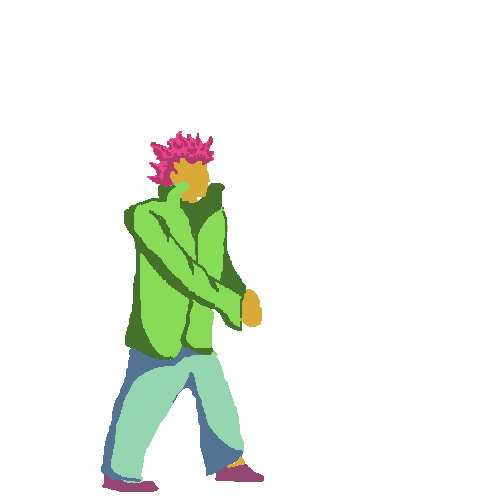
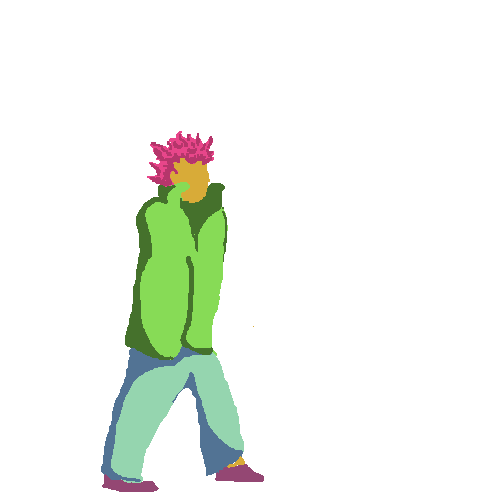
i thought and decide that normal punch will by the fists instead sword. sword will super punch

Changed region(s): [[0.24, 0.39, 0.54, 0.66], [0.36, 0.63, 0.39, 0.66]]

diff --git a/main.py b/main.py
@@ -21,21 +21,21 @@ class LevelObject(pygame.sprite.Sprite):
         self.weapon = False
         if person:
             if person == 1:
-                self.image = pygame.image.load("data/person.png")
-                self.image = pygame.Surface.convert_alpha(self.image)
+                self.image = pygame.image.load("data/person.png").convert_alpha()
             self.rect = self.image.get_rect()
             self.person = True
-            self.walk = False
+
 
             self.speed = background.speed
             self.person_number = person
         elif weapon:
             if weapon == 1:
-                self.image = pygame.image.load("data/sword.png").convert_alpha()
-                # self.image = pygame.Surface.convert_alpha(self.image)
+                self.image = pygame.image.load("data/fists.png").convert_alpha()
+
             self.rect = self.image.get_rect()
             self.weapon = True
             self.person_number = weapon
+        self.walk = False
         self.animation_active = False
         self.rect.x = x
         self.rect.y = y
@@ -63,19 +63,22 @@ class LevelObject(pygame.sprite.Sprite):
                     if not self.look_right:
                         self.image = pygame.transform.flip(self.image, True, False)
                 elif self.weapon:
-                    if self.animation_active:
-                        if self.normal_weapon_punch:
-                            self.max_value_anim = 9
-                            self.image = pygame.image.load(f"data/sword_punch{self.now_frame % self.max_value_anim + 1}.png")
-                        if not self.look_right:
-                            self.image = pygame.transform.flip(self.image, True, False)
+                    # if self.weapon
+                    if self.walk:
+                        self.max_value_anim = 5
+                        self.image = pygame.image.load(f"data/fists_walk_animation{self.now_frame % 5 + 1}.png")
+                    elif self.normal_weapon_punch:
+                        self.max_value_anim = 9
+                        self.image = pygame.image.load(f"data/sword_punch{self.now_frame % self.max_value_anim + 1}.png")
+                    if not self.look_right:
+                        self.image = pygame.transform.flip(self.image, True, False)
 
                 if self.max_value_anim == self.now_frame:
                     self.now_frame = 0
                     self.counter_tics = 0
                     if self.normal_weapon_punch:
-                        self.animation_active = False
                         self.normal_weapon_punch = False
+                        self.animation_active = False
                     #self.back(self.person,self.weapon)
 
 
@@ -190,7 +193,7 @@ class Main_menu():
 
 def load_image():
     level.person.image = pygame.image.load("data/person.png")
-    level.weapon.image = pygame.image.load("data/sword.png")
+    level.weapon.image = pygame.image.load("data/fists.png")
     if not level.person.look_right:
         level.person.image = pygame.transform.flip(level.person.image, True, False)
         level.weapon.image = pygame.transform.flip(level.weapon.image, True, False)
@@ -216,7 +219,7 @@ while running:
                 if event.type == pygame.QUIT:
                     running = False
                     game_mode = -1
-                if not level.person.animation_active:
+                if not level.person.animation_active or not level.weapon.animation_active:
                     if event.type == pygame.MOUSEBUTTONDOWN:
                         if event.button == 1:
                             level.person.normal_weapon_punch = True
@@ -229,8 +232,9 @@ while running:
                             load_image()
                             level.weapon.look_right = True
                             level.person.walk = True
+                            level.weapon.walk = True
                             level.person.animation_active = True
-
+                            level.weapon.animation_active = True
                         elif event.key == pygame.K_LEFT:
                             level.person.look_right = False
                             load_image()
@@ -238,10 +242,13 @@ while running:
                             level.weapon.look_right = False
 
                             level.person.walk = True
+                            level.weapon.walk = True
                             level.person.animation_active = True
+                            level.weapon.animation_active = True
                 elif event.type == pygame.KEYUP:
                     if level.person.walk:
                         level.person.walk = False
+                        level.weapon.walk = False
                         level.person.animation_active = False
                         level.weapon.animation_active = False
                         level.person.now_frame = 0
